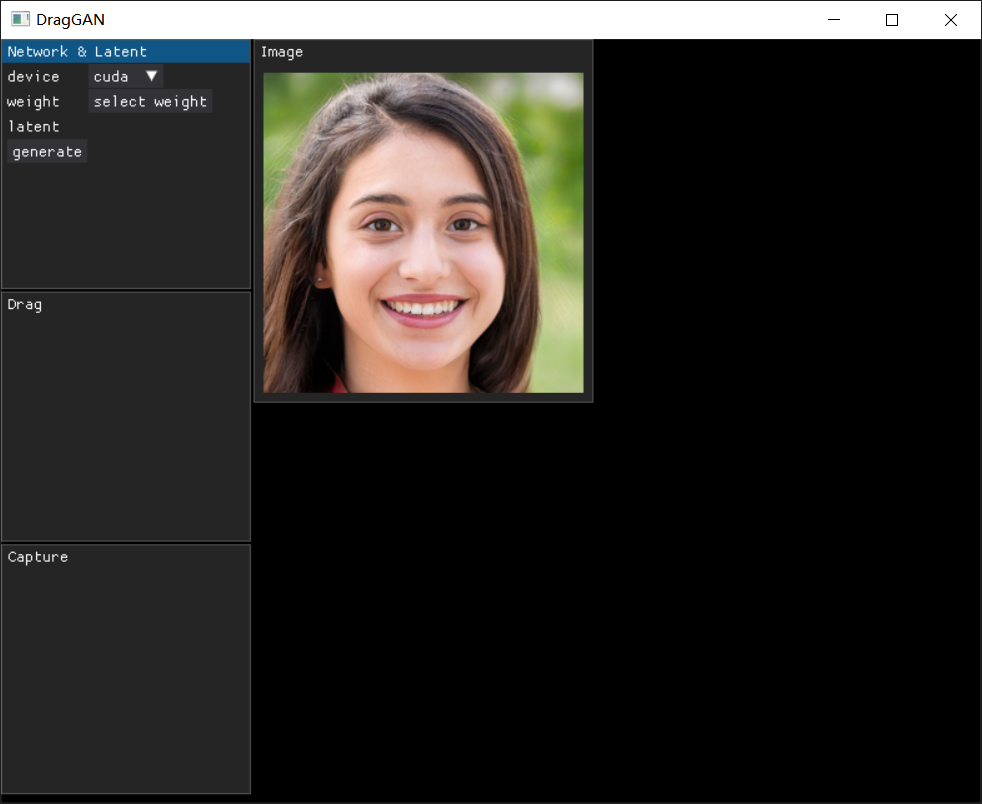
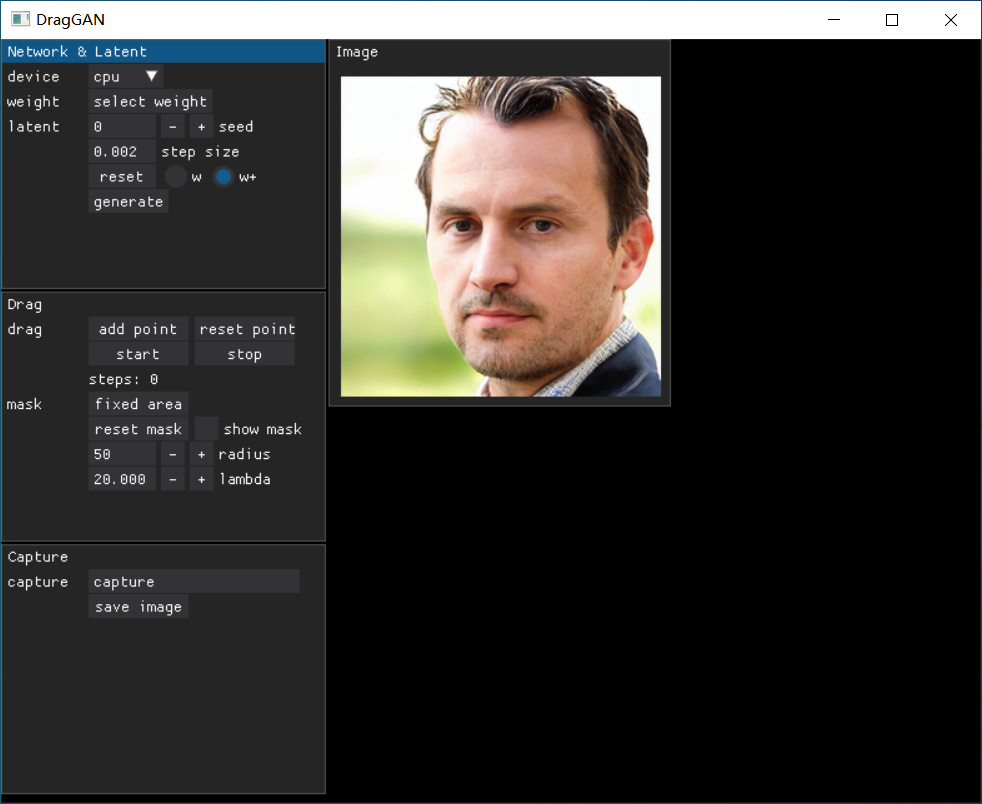
complete basic GUI widgets

diff --git a/gui.py b/gui.py
@@ -33,7 +33,7 @@ def change_device(sender, app_data):
         generator = generator.to(app_data)
         device = app_data
 
-width, height = 240, 200
+width, height = 260, 200
 posx, posy = 0, 0
 with dpg.window(
     label='Network & Latent', width=width, height=height, pos=(posx, posy),
@@ -87,14 +87,28 @@ with dpg.window(
     label='Drag', width=width, height=height, pos=(posx, posy),
     no_move=True, no_close=True, no_collapse=True, no_resize=True,
 ):
-    ...
+    dpg.add_text('drag', pos=(5, 20))
+    dpg.add_button(label="add point", width=80, pos=(70, 20), callback=None)
+    dpg.add_button(label="reset point", width=80, pos=(155, 20), callback=None)
+    dpg.add_button(label="start", width=80, pos=(70, 40), callback=None)
+    dpg.add_button(label="stop", width=80, pos=(155, 40), callback=None)
+    dpg.add_text('steps: 0', tag='steps', pos=(70, 60))
+
+    dpg.add_text('mask', pos=(5, 80))
+    dpg.add_button(label="fixed area", width=80, pos=(70, 80), callback=None)
+    dpg.add_button(label="reset mask", width=80, pos=(70, 100), callback=None)
+    dpg.add_checkbox(label='show mask', pos=(155, 100), default_value=False)
+    dpg.add_input_int(label='radius', width=100, pos=(70, 120), default_value=50)
+    dpg.add_input_float(label='lambda', width=100, pos=(70, 140), default_value=20)
 
 posy += height + 2
 with dpg.window(
     label='Capture', width=width, height=height, pos=(posx, posy),
     no_move=True, no_close=True, no_collapse=True, no_resize=True,
 ):
-    ...
+    dpg.add_text('capture', pos=(5, 20))
+    dpg.add_input_text(pos=(70, 20), default_value='capture')
+    dpg.add_button(label="save image", width=80, pos=(70, 40), callback=None)
 
 def draw_point(x, y, color):
     x_start, x_end = max(0, x - 2), min(image_width, x + 2)
